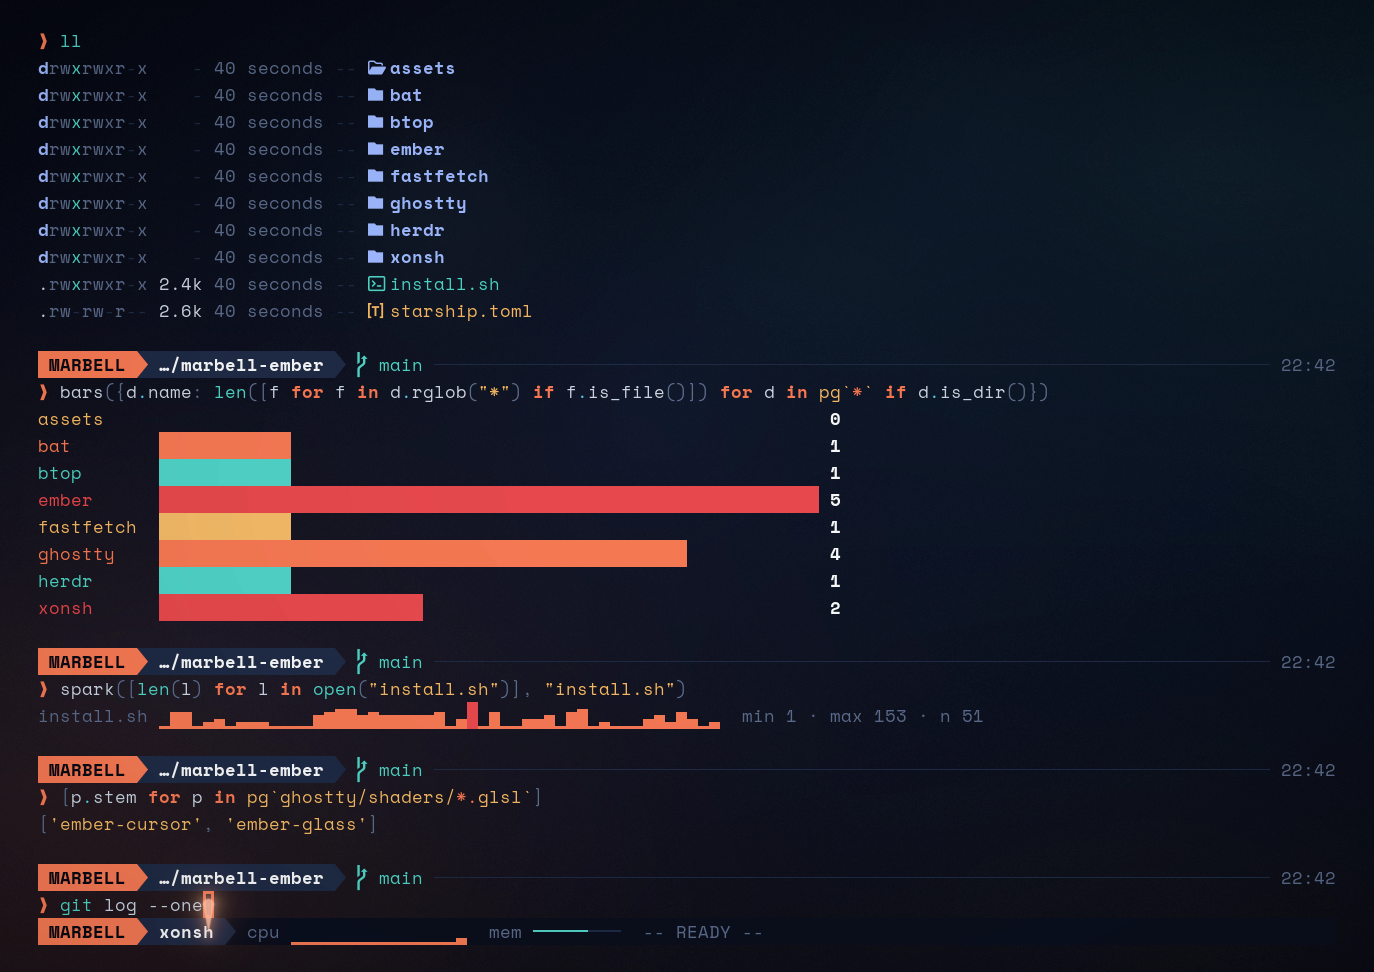
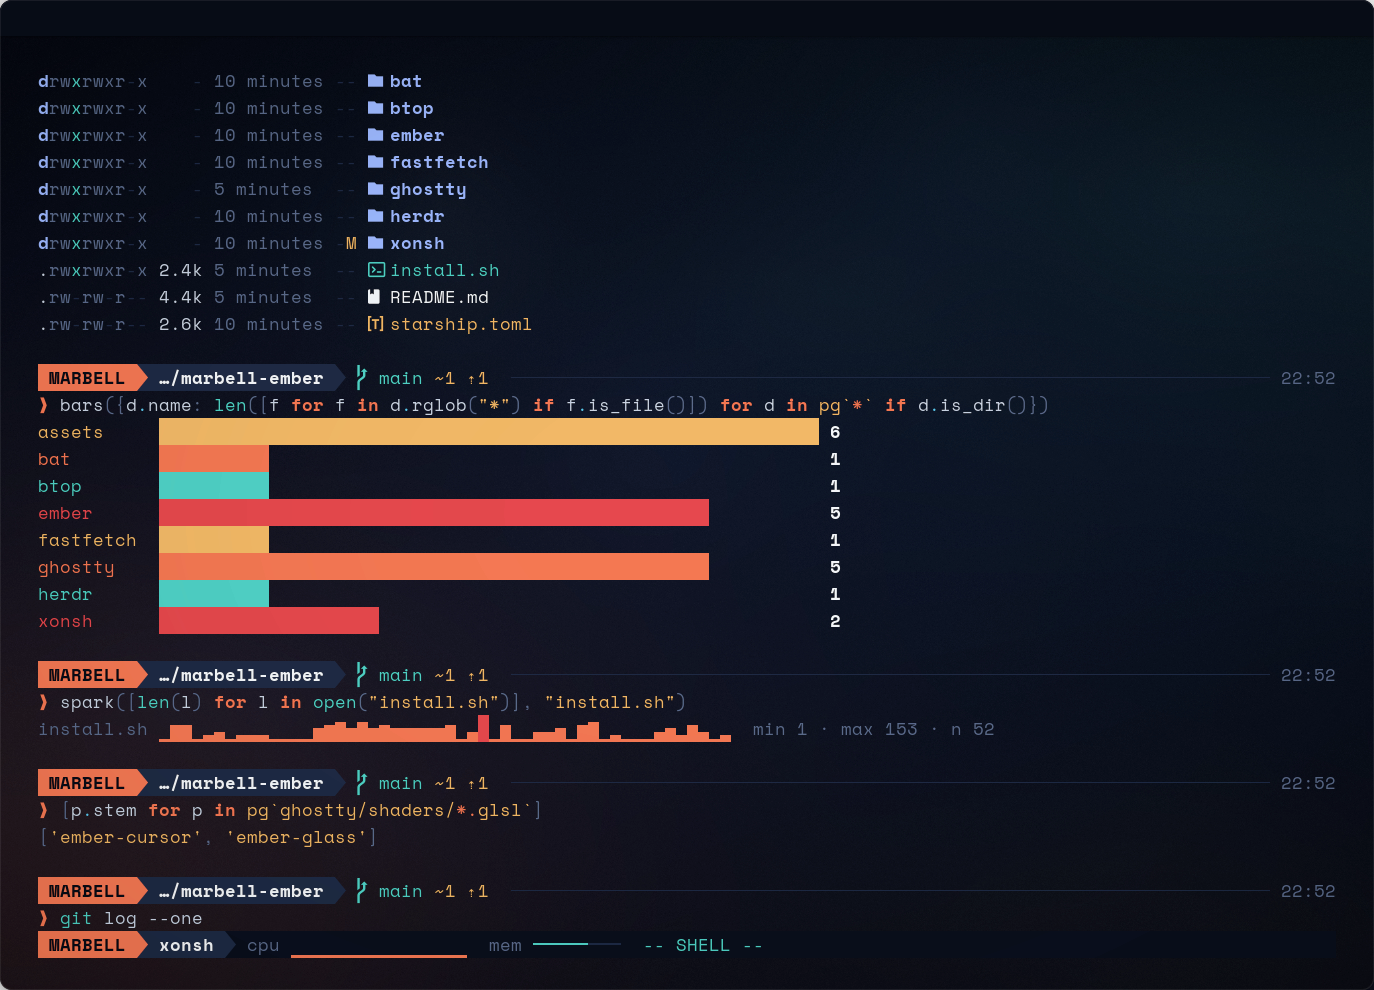
Re-record hero clip, add Python-in-the-shell clip, fix live SHELL/PYTHON flag
The status-line flag was only evaluated once per prompt; it now repaints on
every key, with the Starship prompt cached per prompt.

diff --git a/README.md b/README.md
@@ -12,13 +12,21 @@ It started as a console drawn for a film and was rebuilt as a real terminal: nav
 
 ![The cursor leaving a coral thread as it jumps along the line, slowed down](assets/cursor.gif)
 
-**Python at the prompt.** The shell is xonsh, so a line is either a command or Python. `ember.py` adds charts that draw on the character grid: `bars`, `spark`, `gauge`, `panel`, `table`. The status line at the bottom shows a CPU sparkline and a memory meter, and flips between `-- SHELL --` and `-- PYTHON --` as you type.
+**Python at the prompt.** The shell is xonsh, so a line is either a command or Python, and the two mix: `$(...)` captures a command's output into a Python value, `@(...)` drops a Python value into a command, and `` pg`*.glsl` `` is a glob that returns `Path` objects. The status line at the bottom flips between `-- SHELL --` and `-- PYTHON --` as you type.
+
+![Python and shell commands mixed at the prompt: arithmetic, a glob into a variable, command capture, a bar chart](assets/python.gif)
+
+`ember.py` adds charts that draw on the character grid: `bars`, `spark`, `gauge`, `panel`, `table`. The status line also carries a CPU sparkline and a memory meter.
 
 ![Prompt, bar chart, sparkline and status line](assets/prompt.png)
 
 **Workspaces.** herdr is themed to match: coral active tab and focus border, panes open xonsh.
 
 ![herdr with a shell pane and btop side by side](assets/herdr.png)
+
+**Hidden window controls.** The title bar is a blank strip in the terminal's own colour. The buttons fade in only while the mouse is over it.
+
+![The title strip idle, and with the window buttons shown on hover](assets/chrome.png)
 
 **Tools.** eza, bat, fzf, delta, fastfetch and btop all use the same colours.
 
